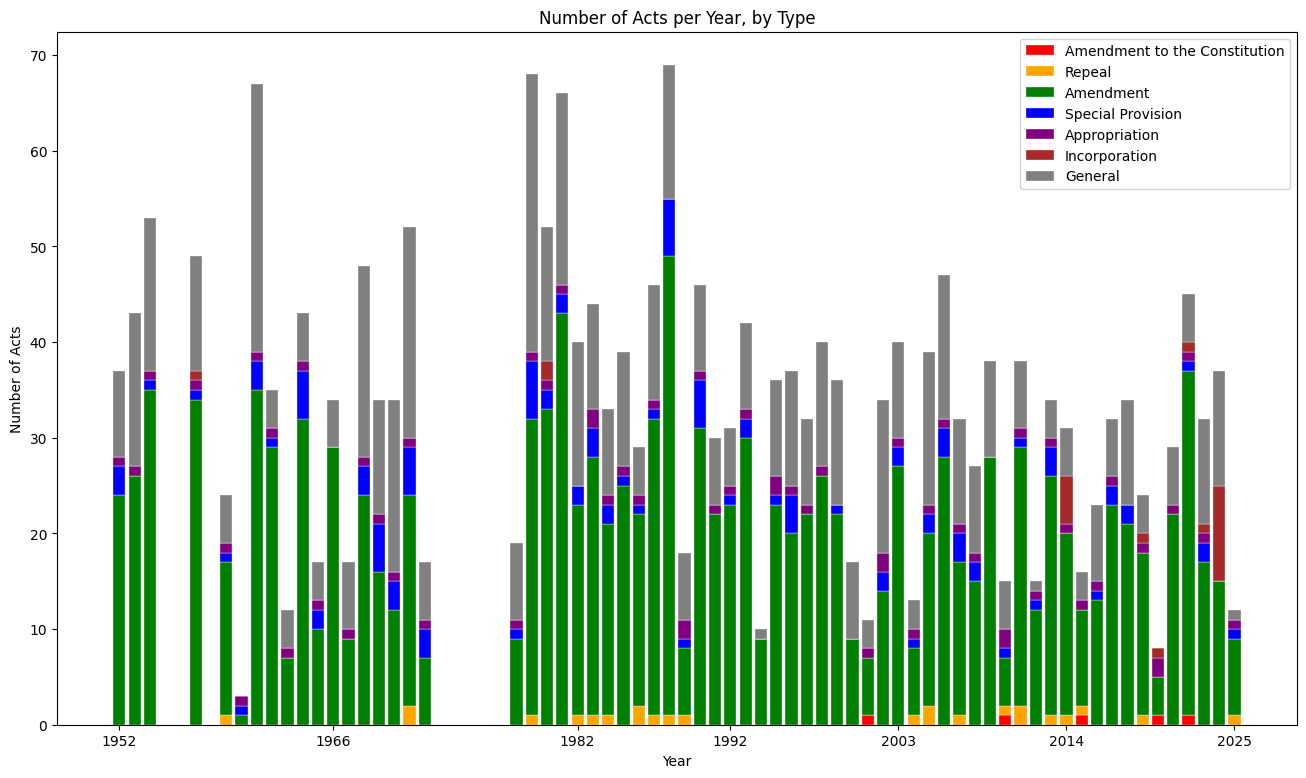
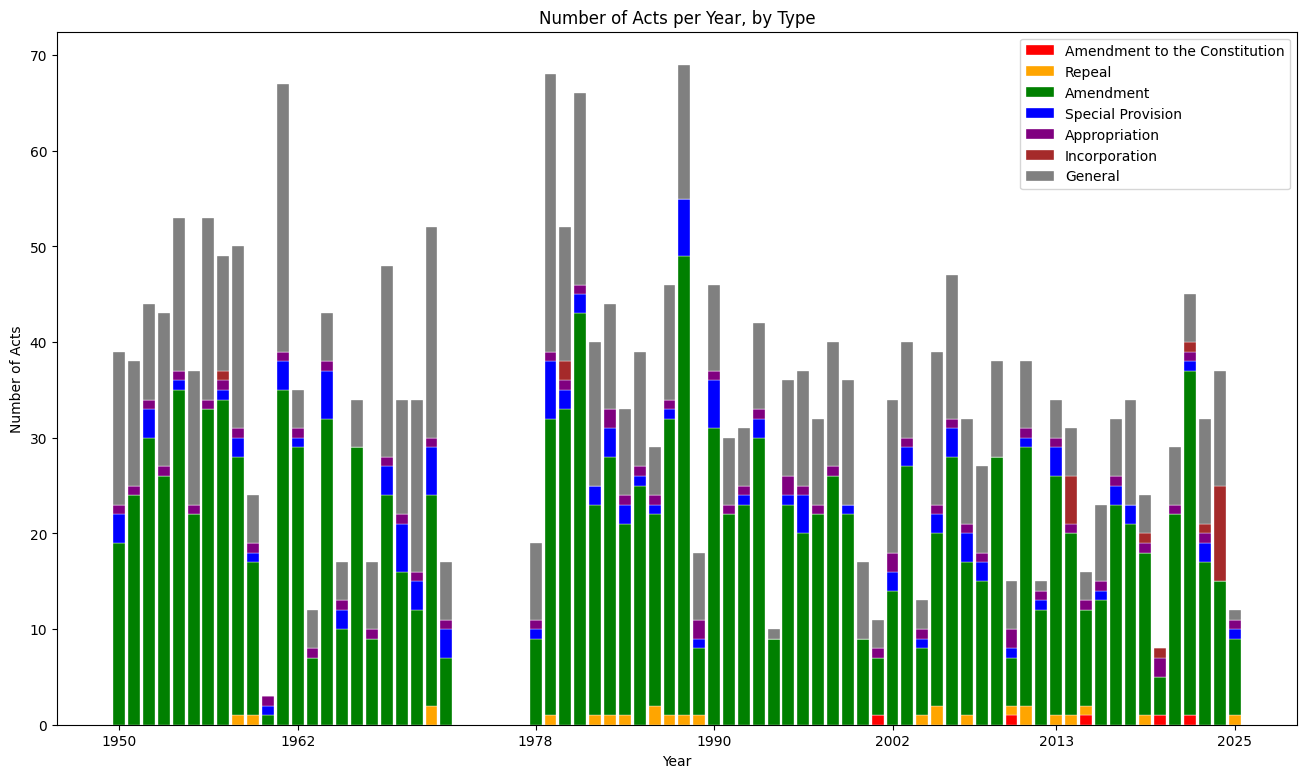
🤖 [readme_build.yml] 2025-08-19-0803

Changed region(s): [[0.0613, 0.0617, 0.9495, 0.9563]]

diff --git a/README.md b/README.md
@@ -1,6 +1,6 @@
 # 🇱🇰 Acts from the Sri Lankan Parliament ([lk_acts](https://github.com/nuuuwan/lk_acts))
 
-Scraped  **2,205** acts (232.77 MB) from [www.parliament.lk](https://www.parliament.lk/en) as of **2025-08-19 13:31:38**.
+Scraped  **2,429** acts (372.30 MB) from [www.parliament.lk](https://www.parliament.lk/en) as of **2025-08-19 13:33:37**.
 
 ![Year Chart](images/chart_year.png)
 
@@ -9,21 +9,21 @@ Scraped  **2,205** acts (232.77 MB) from [www.parliament.lk](https://www.parliam
 | decade | n_metadata | n_pdf | n_txt | n_act_json |
 | :-- | --: | --: | --: | --: |
 | 2020s | 163 | 163 | 163 | 107 |
-| 2010s | 262 | 198 | 198 | 112 |
-| 2000s | 298 | 106 | 106 | 51 |
-| 1990s | 340 | 80 | 80 | 26 |
+| 2010s | 262 | 262 | 262 | 142 |
+| 2000s | 298 | 287 | 287 | 130 |
+| 1990s | 340 | 117 | 117 | 26 |
 | 1980s | 436 | 0 | 0 | 0 |
 | 1970s | 190 | 0 | 0 | 0 |
 | 1960s | 310 | 0 | 0 | 0 |
-| 1950s | 206 | 0 | 0 | 0 |
-| Total | 2205 | 547 | 547 | 296 |
+| 1950s | 430 | 0 | 0 | 0 |
+| Total | 2429 | 829 | 829 | 405 |
 
 ## 🤗 Hugging Face Datasets (🆕)
 
 - [lk-acts-2020-2024-acts](https://huggingface.co/datasets/nuuuwan/lk-acts-2020-2024-acts)
 - [lk-acts-2020-2024-chunks](https://huggingface.co/datasets/nuuuwan/lk-acts-2020-2024-chunks)
 
-## Acts (2,205)
+## Acts (2,429)
 
 ### 2025 (12)
 
@@ -2234,6 +2234,59 @@ Scraped  **2,205** acts (232.77 MB) from [www.parliament.lk](https://www.parliam
 - 🟢 `02/1959` [Tea, Rubber and Coconut  Reseach (Amendment)](https://github.com/nuuuwan/lk_acts_data/tree/main/data/acts/1950s/1959/1959-002) (1959-01-21)
 - 🟢 `01/1959` [Bank Debit Tax (Amendment)](https://github.com/nuuuwan/lk_acts_data/tree/main/data/acts/1950s/1959/1959-001) (1959-01-21)
 
+### 1958 (50)
+
+- 🟢 `51/1958` [Food Control (Amendment)](https://github.com/nuuuwan/lk_acts_data/tree/main/data/acts/1950s/1958/1958-051) (1958-12-31)
+- 🟢 `50/1958` [Holidays (Amendment)](https://github.com/nuuuwan/lk_acts_data/tree/main/data/acts/1950s/1958/1958-050) (1958-12-31)
+- 🟢 `49/1958` [Civil Procedure Code (Amendment)](https://github.com/nuuuwan/lk_acts_data/tree/main/data/acts/1950s/1958/1958-049) (1958-12-31)
+- 🟢 `48/1958` [Ceylon State Mortgage Bank (Amendment)](https://github.com/nuuuwan/lk_acts_data/tree/main/data/acts/1950s/1958/1958-048) (1958-12-31)
+- 🟢 `47/1958` [Ceylon Post Office Savings Bank (Amendment)](https://github.com/nuuuwan/lk_acts_data/tree/main/data/acts/1950s/1958/1958-047) (1958-12-31)
+- 🟢 `46/1958` [Post Office Security Fund (Amendment)](https://github.com/nuuuwan/lk_acts_data/tree/main/data/acts/1950s/1958/1958-046) (1958-12-31)
+- ⚪ `45/1958` [Vidyodaya University and Vidyalankara University](https://github.com/nuuuwan/lk_acts_data/tree/main/data/acts/1950s/1958/1958-045) (1958-12-19)
+- 🟢 `44/1958` [Income Tax (Amendment)](https://github.com/nuuuwan/lk_acts_data/tree/main/data/acts/1950s/1958/1958-044) (1958-12-05)
+- 🟢 `43/1958` [Motor Traffic (Amendment)](https://github.com/nuuuwan/lk_acts_data/tree/main/data/acts/1950s/1958/1958-043) (1958-11-04)
+- 🟢 `42/1958` [National Housing (Amendment)](https://github.com/nuuuwan/lk_acts_data/tree/main/data/acts/1950s/1958/1958-042) (1958-11-03)
+- ⚪ `41/1958` [Profane Publcations](https://github.com/nuuuwan/lk_acts_data/tree/main/data/acts/1950s/1958/1958-041) (1958-11-03)
+- 🟢 `40/1958` [Bribery (Amendment)](https://github.com/nuuuwan/lk_acts_data/tree/main/data/acts/1950s/1958/1958-040) (1958-11-03)
+- 🟢 `39/1958` [Municipal Councils  (Amendment)](https://github.com/nuuuwan/lk_acts_data/tree/main/data/acts/1950s/1958/1958-039) (1958-11-03)
+- 🟢 `38/1958` [Street Collections Regulation (Amendment)](https://github.com/nuuuwan/lk_acts_data/tree/main/data/acts/1950s/1958/1958-038) (1958-11-03)
+- 🟢 `37/1958` [Education (Amendment)](https://github.com/nuuuwan/lk_acts_data/tree/main/data/acts/1950s/1958/1958-037) (1958-11-03)
+- ⚪ `36/1958` [Income Tax (Amendmenet)](https://github.com/nuuuwan/lk_acts_data/tree/main/data/acts/1950s/1958/1958-036) (1958-11-03)
+- 🟢 `35/1958` [Medical Wants (Amendment)](https://github.com/nuuuwan/lk_acts_data/tree/main/data/acts/1950s/1958/1958-035) (1958-11-03)
+- 🟢 `34/1958` [Income Tax (Amendment)](https://github.com/nuuuwan/lk_acts_data/tree/main/data/acts/1950s/1958/1958-034) (1958-11-03)
+- 🟢 `33/1958` [Income Tax (Amendment)](https://github.com/nuuuwan/lk_acts_data/tree/main/data/acts/1950s/1958/1958-033) (1958-11-03)
+- 🟣 `32/1958` [Appropriation](https://github.com/nuuuwan/lk_acts_data/tree/main/data/acts/1950s/1958/1958-032) (1958-09-16)
+- 🟢 `30/1958` [Paddy Lands (Amendment)](https://github.com/nuuuwan/lk_acts_data/tree/main/data/acts/1950s/1958/1958-030) (1958-09-16)
+- ⚪ `29/1958` [Animals](https://github.com/nuuuwan/lk_acts_data/tree/main/data/acts/1950s/1958/1958-029) (1958-09-16)
+- 🔵 `28/1958` [Tamil Language (Special Provisions)](https://github.com/nuuuwan/lk_acts_data/tree/main/data/acts/1950s/1958/1958-028) (1958-09-04)
+- 🟢 `27/1958` [Lotteries (Amendment)](https://github.com/nuuuwan/lk_acts_data/tree/main/data/acts/1950s/1958/1958-027) (1958-09-04)
+- ⚪ `26/1958` [Auditor General's  Fees](https://github.com/nuuuwan/lk_acts_data/tree/main/data/acts/1950s/1958/1958-026) (1958-07-19)
+- 🟢 `25/1958` [Customs (Amendment)](https://github.com/nuuuwan/lk_acts_data/tree/main/data/acts/1950s/1958/1958-025) (1958-07-19)
+- 🔵 `24/1958` [Co-Operative Societies (Special Provisions)](https://github.com/nuuuwan/lk_acts_data/tree/main/data/acts/1950s/1958/1958-024) (1958-05-09)
+- 🟠 `23/1958` [Stay in Strikes (Repeal)](https://github.com/nuuuwan/lk_acts_data/tree/main/data/acts/1950s/1958/1958-023) (1958-05-09)
+- 🟢 `22/1958` [Registration of Documents (Amendment)](https://github.com/nuuuwan/lk_acts_data/tree/main/data/acts/1950s/1958/1958-022) (1958-05-09)
+- ⚪ `21/1958` [Prisons (Amendmenet)](https://github.com/nuuuwan/lk_acts_data/tree/main/data/acts/1950s/1958/1958-021) (1958-05-09)
+- ⚪ `20/1958` [Suspension of Capital Punishment](https://github.com/nuuuwan/lk_acts_data/tree/main/data/acts/1950s/1958/1958-020) (1958-05-09)
+- ⚪ `19/1958` [Estate Bazaars (Compulsory Acquisition)](https://github.com/nuuuwan/lk_acts_data/tree/main/data/acts/1950s/1958/1958-019) (1958-05-09)
+- 🟢 `18/1958` [Trade Unions (Amendment)](https://github.com/nuuuwan/lk_acts_data/tree/main/data/acts/1950s/1958/1958-018) (1958-05-09)
+- 🟢 `17/1958` [Ceylon State Mortgage Bank (Amendment)](https://github.com/nuuuwan/lk_acts_data/tree/main/data/acts/1950s/1958/1958-017) (1958-05-09)
+- 🟢 `16/1958` [Stamp (Amendment)](https://github.com/nuuuwan/lk_acts_data/tree/main/data/acts/1950s/1958/1958-016) (1958-05-09)
+- ⚪ `15/1958` [Employees' Provident Fund](https://github.com/nuuuwan/lk_acts_data/tree/main/data/acts/1950s/1958/1958-015) (1958-05-09)
+- ⚪ `14/1958` [Enlargement of Powers(Urban Councils, Town Councils and Village Committees)](https://github.com/nuuuwan/lk_acts_data/tree/main/data/acts/1950s/1958/1958-014) (1958-05-09)
+- ⚪ `13/1958` [Port (Cargo) Corporation](https://github.com/nuuuwan/lk_acts_data/tree/main/data/acts/1950s/1958/1958-013) (1958-05-07)
+- ⚪ `12/1958` [Tea Subsidy](https://github.com/nuuuwan/lk_acts_data/tree/main/data/acts/1950s/1958/1958-012) (1958-04-02)
+- ⚪ `11/1958` [Walawe Lands](https://github.com/nuuuwan/lk_acts_data/tree/main/data/acts/1950s/1958/1958-011) (1958-03-12)
+- ⚪ `10/1958` [Conciliation Boards](https://github.com/nuuuwan/lk_acts_data/tree/main/data/acts/1950s/1958/1958-010) (1958-03-12)
+- ⚪ `09/1958` [Courts  Records(Inspection by Minister of Justice)](https://github.com/nuuuwan/lk_acts_data/tree/main/data/acts/1950s/1958/1958-009) (1958-03-12)
+- 🟢 `08/1958` [Development Finance Corporation of Ceylon (Amendment)](https://github.com/nuuuwan/lk_acts_data/tree/main/data/acts/1950s/1958/1958-008) (1958-02-20)
+- ⚪ `07/1958` [Inspector of Labour (Change of Designation)](https://github.com/nuuuwan/lk_acts_data/tree/main/data/acts/1950s/1958/1958-007) (1958-02-20)
+- 🟢 `06/1958` [Maternity Benefits(Amendment)](https://github.com/nuuuwan/lk_acts_data/tree/main/data/acts/1950s/1958/1958-006) (1958-02-20)
+- 🟢 `05/1958` [Rubber Replating Subsidy (Amendment)](https://github.com/nuuuwan/lk_acts_data/tree/main/data/acts/1950s/1958/1958-005) (1958-02-20)
+- ⚪ `04/1958` [Ceylon State Plantations Corporation](https://github.com/nuuuwan/lk_acts_data/tree/main/data/acts/1950s/1958/1958-004) (1958-02-20)
+- 🟢 `03/1958` [Food and Drugs (Amendment)](https://github.com/nuuuwan/lk_acts_data/tree/main/data/acts/1950s/1958/1958-003) (1958-02-20)
+- ⚪ `02/1958` [Tea and Rubber Estates (Control of Fragmentation)](https://github.com/nuuuwan/lk_acts_data/tree/main/data/acts/1950s/1958/1958-002) (1958-02-01)
+- ⚪ `01/1958` [Paddy Lands](https://github.com/nuuuwan/lk_acts_data/tree/main/data/acts/1950s/1958/1958-001) (1958-02-01)
+
 ### 1957 (49)
 
 - 🟢 `62/1957` [Industrial Disputes (Amendment)](https://github.com/nuuuwan/lk_acts_data/tree/main/data/acts/1950s/1957/1957-062) (1957-12-30)
@@ -2285,6 +2338,102 @@ Scraped  **2,205** acts (232.77 MB) from [www.parliament.lk](https://www.parliam
 - 🟢 `03/1957` [Petrol (Control of Supplies)(Amendment)](https://github.com/nuuuwan/lk_acts_data/tree/main/data/acts/1950s/1957/1957-003) (1957-01-24)
 - 🔵 `02/1957` [Local Authorities(Special Provisions)](https://github.com/nuuuwan/lk_acts_data/tree/main/data/acts/1950s/1957/1957-002) (1957-01-24)
 - 🟢 `01/1957` [Widow's  and Orphans' pension Fund (Amendment)](https://github.com/nuuuwan/lk_acts_data/tree/main/data/acts/1950s/1957/1957-001) (1957-01-24)
+
+### 1956 (53)
+
+- 🟢 `55/1956` [Pawnbrokers(Amendment)](https://github.com/nuuuwan/lk_acts_data/tree/main/data/acts/1950s/1956/1956-055) (1956-12-20)
+- 🟢 `54/1956` [Rubber Re-planting Subsidy(Amendment)](https://github.com/nuuuwan/lk_acts_data/tree/main/data/acts/1950s/1956/1956-054) (1956-12-20)
+- 🟢 `53/1956` [Industrial Products (Amendment)](https://github.com/nuuuwan/lk_acts_data/tree/main/data/acts/1950s/1956/1956-053) (1956-12-20)
+- 🟢 `52/1956` [Ceylon Post Office Savings Bank (Amendment)](https://github.com/nuuuwan/lk_acts_data/tree/main/data/acts/1950s/1956/1956-052) (1956-12-20)
+- ⚪ `51/1956` [Muslim Mosque and Charitable Trust of Wakfs](https://github.com/nuuuwan/lk_acts_data/tree/main/data/acts/1950s/1956/1956-051) (1956-11-07)
+- 🟢 `50/1956` [Estate Duty (Amendment)](https://github.com/nuuuwan/lk_acts_data/tree/main/data/acts/1950s/1956/1956-050) (1956-11-07)
+- 🟢 `49/1956` [Ceylon State Mortgage Bank (Amendment)](https://github.com/nuuuwan/lk_acts_data/tree/main/data/acts/1950s/1956/1956-049) (1956-11-07)
+- ⚪ `48/1956` [Children and young persons(Harmful PUblications)](https://github.com/nuuuwan/lk_acts_data/tree/main/data/acts/1950s/1956/1956-048) (1956-11-07)
+- ⚪ `47/1956` [Employment of Women, Young Persons and Children](https://github.com/nuuuwan/lk_acts_data/tree/main/data/acts/1950s/1956/1956-047) (1956-11-07)
+- ⚪ `46/1956` [Veterinary Surgeons and practitioners](https://github.com/nuuuwan/lk_acts_data/tree/main/data/acts/1950s/1956/1956-046) (1956-11-07)
+- 🟢 `45/1956` [Roads ( Transfer of Control) (Amendment)](https://github.com/nuuuwan/lk_acts_data/tree/main/data/acts/1950s/1956/1956-045) (1956-10-10)
+- ⚪ `44/1956` [Ceylon Savintgs Bank(Amendmeent)](https://github.com/nuuuwan/lk_acts_data/tree/main/data/acts/1950s/1956/1956-044) (1956-10-10)
+- ⚪ `43/1956` [Rest houses](https://github.com/nuuuwan/lk_acts_data/tree/main/data/acts/1950s/1956/1956-043) (1956-10-10)
+- 🟢 `42/1956` [Maintenance Orders(Facilities for Enforcement) (Amendment)](https://github.com/nuuuwan/lk_acts_data/tree/main/data/acts/1950s/1956/1956-042) (1956-09-28)
+- 🟣 `41/1956` [Appropriation](https://github.com/nuuuwan/lk_acts_data/tree/main/data/acts/1950s/1956/1956-041) (1956-09-14)
+- ⚪ `40/1956` [National Planning Council](https://github.com/nuuuwan/lk_acts_data/tree/main/data/acts/1950s/1956/1956-040) (1956-09-14)
+- 🟢 `39/1956` [Holidays (Amendment)](https://github.com/nuuuwan/lk_acts_data/tree/main/data/acts/1950s/1956/1956-039) (1956-09-06)
+- ⚪ `38/1956` [Mawathagama Land Acquisition](https://github.com/nuuuwan/lk_acts_data/tree/main/data/acts/1950s/1956/1956-038) (1956-09-01)
+- ⚪ `37/1956` [Fee - Charging Employment Agencies](https://github.com/nuuuwan/lk_acts_data/tree/main/data/acts/1950s/1956/1956-037) (1956-09-01)
+- 🟢 `36/1956` [Ceylon University (Amendment)](https://github.com/nuuuwan/lk_acts_data/tree/main/data/acts/1950s/1956/1956-036) (1956-09-01)
+- 🟢 `35/1956` [Exchange Control (Amendment)](https://github.com/nuuuwan/lk_acts_data/tree/main/data/acts/1950s/1956/1956-035) (1956-09-01)
+- 🟢 `34/1956` [Criminal Procedure Code (Amendment)](https://github.com/nuuuwan/lk_acts_data/tree/main/data/acts/1950s/1956/1956-034) (1956-08-02)
+- ⚪ `33/1956` [Official Language](https://github.com/nuuuwan/lk_acts_data/tree/main/data/acts/1950s/1956/1956-033) (1956-07-07)
+- 🟢 `32/1956` [Police (Amendment)](https://github.com/nuuuwan/lk_acts_data/tree/main/data/acts/1950s/1956/1956-032) (1956-06-28)
+- 🟢 `31/1956` [Ceylon State Mortgage Bank (Amendment)](https://github.com/nuuuwan/lk_acts_data/tree/main/data/acts/1950s/1956/1956-031) (1956-06-14)
+- 🟢 `30/1956` [Fisheries (Amendment)](https://github.com/nuuuwan/lk_acts_data/tree/main/data/acts/1950s/1956/1956-030) (1956-02-17)
+- 🟢 `29/1956` [Coconut Products (Amendment)](https://github.com/nuuuwan/lk_acts_data/tree/main/data/acts/1950s/1956/1956-029) (1956-02-17)
+- 🟢 `28/1956` [Housing & Town (Improvement) Amendment](https://github.com/nuuuwan/lk_acts_data/tree/main/data/acts/1950s/1956/1956-028) (1956-02-17)
+- 🟢 `27/1956` [Mental Diseases (Amendment)](https://github.com/nuuuwan/lk_acts_data/tree/main/data/acts/1950s/1956/1956-027) (1956-02-17)
+- 🟢 `26/1956` [Hospitals Lotteries (Amendment)](https://github.com/nuuuwan/lk_acts_data/tree/main/data/acts/1950s/1956/1956-026) (1956-02-17)
+- 🟢 `25/1956` [Industrial Disputes (Amendment)](https://github.com/nuuuwan/lk_acts_data/tree/main/data/acts/1950s/1956/1956-025) (1956-02-17)
+- 🟢 `24/1956` [Petroleum (Amendment)](https://github.com/nuuuwan/lk_acts_data/tree/main/data/acts/1950s/1956/1956-024) (1956-02-17)
+- 🟢 `23/1956` [Rabies (Amendment)](https://github.com/nuuuwan/lk_acts_data/tree/main/data/acts/1950s/1956/1956-023) (1956-02-17)
+- 🟢 `22/1956` [Municipal Councils (Amendment)](https://github.com/nuuuwan/lk_acts_data/tree/main/data/acts/1950s/1956/1956-022) (1956-02-17)
+- ⚪ `21/1956` [Explosives](https://github.com/nuuuwan/lk_acts_data/tree/main/data/acts/1950s/1956/1956-021) (1956-02-17)
+- ⚪ `18/1956` [Conversion of Estate Roads into Public Roads](https://github.com/nuuuwan/lk_acts_data/tree/main/data/acts/1950s/1956/1956-018) (1956-02-17)
+- 🟢 `17/1956` [Bribery (Amendment)](https://github.com/nuuuwan/lk_acts_data/tree/main/data/acts/1950s/1956/1956-017) (1956-02-16)
+- 🟢 `16/1956` [Ceylon Parliamentary Elections (Amendment)](https://github.com/nuuuwan/lk_acts_data/tree/main/data/acts/1950s/1956/1956-016) (1956-02-16)
+- 🟢 `15/1956` [Stamp (Amendment)](https://github.com/nuuuwan/lk_acts_data/tree/main/data/acts/1950s/1956/1956-015) (1956-02-14)
+- ⚪ `14/1956` [Control of the Possession of Food](https://github.com/nuuuwan/lk_acts_data/tree/main/data/acts/1950s/1956/1956-014) (1956-02-03)
+- 🟢 `13/1956` [Heavy Oil Motor Vehicles Taxation (Amendment)](https://github.com/nuuuwan/lk_acts_data/tree/main/data/acts/1950s/1956/1956-013) (1956-02-03)
+- 🟢 `12/1956` [Village Communities (Amendment)](https://github.com/nuuuwan/lk_acts_data/tree/main/data/acts/1950s/1956/1956-012) (1956-02-03)
+- ⚪ `11/1956` [Rubber Control](https://github.com/nuuuwan/lk_acts_data/tree/main/data/acts/1950s/1956/1956-011) (1956-02-03)
+- 🟢 `10/1956` [Health Services  (Amendment)](https://github.com/nuuuwan/lk_acts_data/tree/main/data/acts/1950s/1956/1956-010) (1956-02-03)
+- 🟢 `09/1956` [Excise ( Amendment)](https://github.com/nuuuwan/lk_acts_data/tree/main/data/acts/1950s/1956/1956-009) (1956-02-03)
+- 🟢 `08/1956` [Ceylon Develonment Loans ( Amendment)](https://github.com/nuuuwan/lk_acts_data/tree/main/data/acts/1950s/1956/1956-008) (1956-02-03)
+- ⚪ `07/1956` [Nursing Houses (Validation of the Refund of Fees)](https://github.com/nuuuwan/lk_acts_data/tree/main/data/acts/1950s/1956/1956-007) (1956-02-03)
+- ⚪ `06/1956` [Government Indemnity Bonds](https://github.com/nuuuwan/lk_acts_data/tree/main/data/acts/1950s/1956/1956-006) (1956-02-03)
+- ⚪ `5/1956` [Special Stamps](https://github.com/nuuuwan/lk_acts_data/tree/main/data/acts/1950s/1956/1956-005) (1956-02-03)
+- ⚪ `04/1956` [International Finance Corporation Agreement](https://github.com/nuuuwan/lk_acts_data/tree/main/data/acts/1950s/1956/1956-004) (1956-02-02)
+- 🟢 `03/1956` [Income Tax (Amendment)](https://github.com/nuuuwan/lk_acts_data/tree/main/data/acts/1950s/1956/1956-003) (1956-02-02)
+- ⚪ `02/1956` [Revised Edition of the Legislative Enactment](https://github.com/nuuuwan/lk_acts_data/tree/main/data/acts/1950s/1956/1956-002) (1956-02-01)
+- 🟢 `01/1956` [Motor Traffic (Amendment)](https://github.com/nuuuwan/lk_acts_data/tree/main/data/acts/1950s/1956/1956-001) (1956-01-19)
+
+### 1955 (37)
+
+- ⚪ `38/1955` [Coconut Crafting](https://github.com/nuuuwan/lk_acts_data/tree/main/data/acts/1950s/1955/1955-038) (1955-11-12)
+- 🟢 `37/1955` [Bank of Ceylon ( Amendment)](https://github.com/nuuuwan/lk_acts_data/tree/main/data/acts/1950s/1955/1955-037) (1955-11-12)
+- 🟢 `36/1955` [Co-operative Wholesale Establishment ( Amendment)](https://github.com/nuuuwan/lk_acts_data/tree/main/data/acts/1950s/1955/1955-036) (1955-11-12)
+- ⚪ `35/1955` [Development Finance Corporation of Ceylon](https://github.com/nuuuwan/lk_acts_data/tree/main/data/acts/1950s/1955/1955-035) (1955-10-04)
+- 🟢 `34/1955` [Estate Duty ( Amendment)](https://github.com/nuuuwan/lk_acts_data/tree/main/data/acts/1950s/1955/1955-034) (1955-10-04)
+- 🟣 `33/1955` [Appropriation](https://github.com/nuuuwan/lk_acts_data/tree/main/data/acts/1950s/1955/1955-033) (1955-09-21)
+- ⚪ `32/1955` [Official Secrets](https://github.com/nuuuwan/lk_acts_data/tree/main/data/acts/1950s/1955/1955-032) (1955-09-01)
+- 🟢 `31/1955` [Post Office  (Amendment)](https://github.com/nuuuwan/lk_acts_data/tree/main/data/acts/1950s/1955/1955-031) (1955-09-01)
+- 🟢 `30/1955` [National Housing ( Amendment)](https://github.com/nuuuwan/lk_acts_data/tree/main/data/acts/1950s/1955/1955-030) (1955-08-25)
+- 🟢 `29/1955` [Commissions of Inquiry (Amendment)](https://github.com/nuuuwan/lk_acts_data/tree/main/data/acts/1950s/1955/1955-029) (1955-08-25)
+- 🟢 `28/1955` [Milk Board ( Amendment)](https://github.com/nuuuwan/lk_acts_data/tree/main/data/acts/1950s/1955/1955-028) (1955-06-29)
+- 🟢 `27/1955` [Master Attendance ( Amendment)](https://github.com/nuuuwan/lk_acts_data/tree/main/data/acts/1950s/1955/1955-027) (1955-06-29)
+- 🟢 `26/1955` [Houses of Detention(Amendment)](https://github.com/nuuuwan/lk_acts_data/tree/main/data/acts/1950s/1955/1955-026) (1955-04-27)
+- 🟢 `25/1955` [The Promissory Oaths (Amendment)](https://github.com/nuuuwan/lk_acts_data/tree/main/data/acts/1950s/1955/1955-025) (1955-04-27)
+- ⚪ `24/1955` [All Ceylon Buddhist Congress](https://github.com/nuuuwan/lk_acts_data/tree/main/data/acts/1950s/1955/1955-024) (1955-04-16)
+- 🟢 `23/1955` [Medical (Amendment)](https://github.com/nuuuwan/lk_acts_data/tree/main/data/acts/1950s/1955/1955-023) (1955-04-14)
+- ⚪ `22/1955` [Administrative Districts](https://github.com/nuuuwan/lk_acts_data/tree/main/data/acts/1950s/1955/1955-022) (1955-04-14)
+- 🟢 `20/1955` [Tea Research ( Amendment)](https://github.com/nuuuwan/lk_acts_data/tree/main/data/acts/1950s/1955/1955-020) (1955-04-14)
+- 🟢 `19/1955` [Governess Sub- Sponsored Corporation ( Amendment)](https://github.com/nuuuwan/lk_acts_data/tree/main/data/acts/1950s/1955/1955-019) (1955-04-14)
+- 🟢 `18/1955` [Fire Arms (Amendment)](https://github.com/nuuuwan/lk_acts_data/tree/main/data/acts/1950s/1955/1955-018) (1955-04-14)
+- ⚪ `17/1955` [Rome Convention](https://github.com/nuuuwan/lk_acts_data/tree/main/data/acts/1950s/1955/1955-017) (1955-04-14)
+- 🟢 `16/1955` [Immigrants & Emigrants (Amendment)](https://github.com/nuuuwan/lk_acts_data/tree/main/data/acts/1950s/1955/1955-016) (1955-04-14)
+- ⚪ `15/1955` [Ceylon Institute of Scientific & Industrial Research](https://github.com/nuuuwan/lk_acts_data/tree/main/data/acts/1950s/1955/1955-015) (1955-04-12)
+- ⚪ `14/1955` [Sri Punyawardhana Samithiya](https://github.com/nuuuwan/lk_acts_data/tree/main/data/acts/1950s/1955/1955-014) (1955-04-12)
+- 🟢 `13/1955` [Citizenship (Amendment)](https://github.com/nuuuwan/lk_acts_data/tree/main/data/acts/1950s/1955/1955-013) (1955-04-12)
+- ⚪ `12/1955` [Stay-in Strikes](https://github.com/nuuuwan/lk_acts_data/tree/main/data/acts/1950s/1955/1955-012) (1955-04-12)
+- 🟢 `11/1955` [Income Tax (Amendment)](https://github.com/nuuuwan/lk_acts_data/tree/main/data/acts/1950s/1955/1955-011) (1955-04-12)
+- ⚪ `10/1955` [Town & Country Planning](https://github.com/nuuuwan/lk_acts_data/tree/main/data/acts/1950s/1955/1955-010) (1955-04-08)
+- ⚪ `09/1955` [Imports & Exports (Control)](https://github.com/nuuuwan/lk_acts_data/tree/main/data/acts/1950s/1955/1955-009) (1955-04-08)
+- 🟢 `08/1955` [Commissions of Inquiry (Amendment)](https://github.com/nuuuwan/lk_acts_data/tree/main/data/acts/1950s/1955/1955-008) (1955-03-24)
+- 🟢 `07/1955` [Food Supplies (Amendment)](https://github.com/nuuuwan/lk_acts_data/tree/main/data/acts/1950s/1955/1955-007) (1955-03-10)
+- 🟢 `06/1955` [ceylon Savings Bank (Amendment)](https://github.com/nuuuwan/lk_acts_data/tree/main/data/acts/1950s/1955/1955-006) (1955-02-18)
+- ⚪ `05/1955` [Bills of Exchange](https://github.com/nuuuwan/lk_acts_data/tree/main/data/acts/1950s/1955/1955-005) (1955-02-18)
+- ⚪ `04/1955` [Hospitals Lotteries](https://github.com/nuuuwan/lk_acts_data/tree/main/data/acts/1950s/1955/1955-004) (1955-02-18)
+- 🟢 `03/1955` [Rubber Research (Amendment)](https://github.com/nuuuwan/lk_acts_data/tree/main/data/acts/1950s/1955/1955-003) (1955-02-18)
+- ⚪ `02/1955` [Antiquities](https://github.com/nuuuwan/lk_acts_data/tree/main/data/acts/1950s/1955/1955-002) (1955-02-18)
+- 🟢 `01/1955` [Rubber Replanting Subsidy (Amendment)](https://github.com/nuuuwan/lk_acts_data/tree/main/data/acts/1950s/1955/1955-001) (1955-01-27)
 
 ### 1954 (53)
 
@@ -2388,7 +2537,7 @@ Scraped  **2,205** acts (232.77 MB) from [www.parliament.lk](https://www.parliam
 - 🟢 `03/1953` [Housing Loan (Amendment)](https://github.com/nuuuwan/lk_acts_data/tree/main/data/acts/1950s/1953/1953-003) (1953-02-14)
 - 🟢 `02/1953` [Pawn Brokers (Amendment)](https://github.com/nuuuwan/lk_acts_data/tree/main/data/acts/1950s/1953/1953-002) (1953-02-13)
 
-### 1952 (37)
+### 1952 (44)
 
 - 🟢 `45/1952` [Indian & Pakistani Residents (Citizenship) (Amendment)](https://github.com/nuuuwan/lk_acts_data/tree/main/data/acts/1950s/1952/1952-045) (1952-11-27)
 - ⚪ `44/1952` [Kandian Marriage & Divorce](https://github.com/nuuuwan/lk_acts_data/tree/main/data/acts/1950s/1952/1952-044) (1952-11-22)
@@ -2427,4 +2576,94 @@ Scraped  **2,205** acts (232.77 MB) from [www.parliament.lk](https://www.parliam
 - ⚪ `11/1952` [Anuradhapura Buddhist Association, Anuradhapura](https://github.com/nuuuwan/lk_acts_data/tree/main/data/acts/1950s/1952/1952-011) (1952-03-08)
 - 🟢 `09/1952` [Stamp (Amendment)](https://github.com/nuuuwan/lk_acts_data/tree/main/data/acts/1950s/1952/1952-009) (1952-03-08)
 - ⚪ `08/1952` [Local Authorities (Enlargement of Powers)](https://github.com/nuuuwan/lk_acts_data/tree/main/data/acts/1950s/1952/1952-008) (1952-02-08)
+- 🟢 `07/1952` [Ceylon Parliamentary Elections (Amendment)](https://github.com/nuuuwan/lk_acts_data/tree/main/data/acts/1950s/1952/1952-007) (1952-01-31)
+- ⚪ `06/1952` [Local Authorities (Standard By-Laws)](https://github.com/nuuuwan/lk_acts_data/tree/main/data/acts/1950s/1952/1952-006) (1952-01-16)
+- 🟢 `05/1952` [Loan Board (Amendment)](https://github.com/nuuuwan/lk_acts_data/tree/main/data/acts/1950s/1952/1952-005) (1952-01-16)
+- 🟢 `04/1952` [Trade Marks (Amendment)](https://github.com/nuuuwan/lk_acts_data/tree/main/data/acts/1950s/1952/1952-004) (1952-01-16)
+- 🟢 `03/1952` [School Teachers' Pension (Amendment)](https://github.com/nuuuwan/lk_acts_data/tree/main/data/acts/1950s/1952/1952-003) (1952-01-16)
+- 🟢 `02/1952` [Entertainment Tax (Amendment)](https://github.com/nuuuwan/lk_acts_data/tree/main/data/acts/1950s/1952/1952-002) (1952-01-16)
+- 🟢 `01/1952` [Motor Traffic (Amendment)](https://github.com/nuuuwan/lk_acts_data/tree/main/data/acts/1950s/1952/1952-001) (1952-01-16)
+
+### 1951 (38)
+
+- ⚪ `42/1951` [Negombo Municipal Council (Differential Rates)](https://github.com/nuuuwan/lk_acts_data/tree/main/data/acts/1950s/1951/1951-042) (1951-12-21)
+- 🟢 `41/1951` [Guides (Amendment)](https://github.com/nuuuwan/lk_acts_data/tree/main/data/acts/1950s/1951/1951-041) (1951-12-21)
+- 🟢 `40/1951` [Holidays (Amendment)](https://github.com/nuuuwan/lk_acts_data/tree/main/data/acts/1950s/1951/1951-040) (1951-12-21)
+- ⚪ `38/1951` [Lady Lochore Loan Fund (Boards of Trustees)](https://github.com/nuuuwan/lk_acts_data/tree/main/data/acts/1950s/1951/1951-038) (1951-09-24)
+- 🟣 `37/1951` [Appropriation (1951-1952)](https://github.com/nuuuwan/lk_acts_data/tree/main/data/acts/1950s/1951/1951-037) (1951-09-22)
+- 🟢 `36/1951` [Income Tax (Amendment)](https://github.com/nuuuwan/lk_acts_data/tree/main/data/acts/1950s/1951/1951-036) (1951-09-05)
+- 🟢 `35/1951` [Companies (Amendment)](https://github.com/nuuuwan/lk_acts_data/tree/main/data/acts/1950s/1951/1951-035) (1951-09-01)
+- 🟢 `34/1951` [Forest (Amendment)](https://github.com/nuuuwan/lk_acts_data/tree/main/data/acts/1950s/1951/1951-034) (1951-09-01)
+- 🟢 `33/1951` [Profit Tax (Amendment)](https://github.com/nuuuwan/lk_acts_data/tree/main/data/acts/1950s/1951/1951-033) (1951-09-01)
+- 🟢 `32/1951` [Tea Research (Amendment)](https://github.com/nuuuwan/lk_acts_data/tree/main/data/acts/1950s/1951/1951-032) (1951-09-01)
+- 🟢 `31/1951` [Coconut Research (Amendment)](https://github.com/nuuuwan/lk_acts_data/tree/main/data/acts/1950s/1951/1951-031) (1951-09-01)
+- 🟢 `30/1951` [Rubber Research (Amendment)](https://github.com/nuuuwan/lk_acts_data/tree/main/data/acts/1950s/1951/1951-030) (1951-09-01)
+- ⚪ `29/1951` [Lighthouses](https://github.com/nuuuwan/lk_acts_data/tree/main/data/acts/1950s/1951/1951-029) (1951-09-01)
+- 🟢 `28/1951` [Printers and Publishers (Amendment)](https://github.com/nuuuwan/lk_acts_data/tree/main/data/acts/1950s/1951/1951-028) (1951-09-01)
+- 🟢 `27/1951` [Customs (Amendment)](https://github.com/nuuuwan/lk_acts_data/tree/main/data/acts/1950s/1951/1951-027) (1951-08-13)
+- ⚪ `26/1951` [Companies (Donation)](https://github.com/nuuuwan/lk_acts_data/tree/main/data/acts/1950s/1951/1951-026) (1951-08-13)
+- ⚪ `25/1951` [Soil Conservation](https://github.com/nuuuwan/lk_acts_data/tree/main/data/acts/1950s/1951/1951-025) (1951-08-13)
+- ⚪ `24/1951` [Firing Ranges and Military Training](https://github.com/nuuuwan/lk_acts_data/tree/main/data/acts/1950s/1951/1951-024) (1951-08-13)
+- 🟢 `23/1951` [Public Performances (Amendment)](https://github.com/nuuuwan/lk_acts_data/tree/main/data/acts/1950s/1951/1951-023) (1951-07-26)
+- 🟢 `22/1951` [Housing Loans (Amendment)](https://github.com/nuuuwan/lk_acts_data/tree/main/data/acts/1950s/1951/1951-022) (1951-07-26)
+- 🟢 `20/1951` [Printing Press (Amendment)](https://github.com/nuuuwan/lk_acts_data/tree/main/data/acts/1950s/1951/1951-020) (1951-07-12)
+- 🟢 `19/1951` [Savings Certificates (Amendment)](https://github.com/nuuuwan/lk_acts_data/tree/main/data/acts/1950s/1951/1951-019) (1951-07-12)
+- 🟢 `18/1951` [Newspapers (Amendment)](https://github.com/nuuuwan/lk_acts_data/tree/main/data/acts/1950s/1951/1951-018) (1951-07-12)
+- ⚪ `17/1951` [Births and Deaths Registration](https://github.com/nuuuwan/lk_acts_data/tree/main/data/acts/1950s/1951/1951-017) (1951-04-12)
+- ⚪ `16/1951` [Partition](https://github.com/nuuuwan/lk_acts_data/tree/main/data/acts/1950s/1951/1951-016) (1951-04-12)
+- ⚪ `15/1951` [Colombo Municipal Council (Differential Rates)](https://github.com/nuuuwan/lk_acts_data/tree/main/data/acts/1950s/1951/1951-015) (1951-04-12)
+- ⚪ `14/1951` [Motor Traffic](https://github.com/nuuuwan/lk_acts_data/tree/main/data/acts/1950s/1951/1951-014) (1951-04-06)
+- ⚪ `13/1951` [Muslim Marriage & Divorce](https://github.com/nuuuwan/lk_acts_data/tree/main/data/acts/1950s/1951/1951-013) (1951-04-05)
+- ⚪ `11/1951` [Roads (Trnasfer of Control)](https://github.com/nuuuwan/lk_acts_data/tree/main/data/acts/1950s/1951/1951-011) (1951-03-22)
+- 🟢 `10/1951` [Public Servants (Liabilities) (Amendment)](https://github.com/nuuuwan/lk_acts_data/tree/main/data/acts/1950s/1951/1951-010) (1951-03-15)
+- ⚪ `09/1951` [Felling of Trees (Control)](https://github.com/nuuuwan/lk_acts_data/tree/main/data/acts/1950s/1951/1951-009) (1951-03-15)
+- 🟢 `08/1951` [Estate Duty (Amendment)](https://github.com/nuuuwan/lk_acts_data/tree/main/data/acts/1950s/1951/1951-008) (1951-03-15)
+- 🟢 `06/1951` [Notaries (Amendment)](https://github.com/nuuuwan/lk_acts_data/tree/main/data/acts/1950s/1951/1951-006) (1951-03-09)
+- 🟢 `05/1951` [Education (Amendment)](https://github.com/nuuuwan/lk_acts_data/tree/main/data/acts/1950s/1951/1951-005) (1951-03-02)
+- 🟢 `04/1951` [Special Areas (Colombo) Development (Amendment)](https://github.com/nuuuwan/lk_acts_data/tree/main/data/acts/1950s/1951/1951-004) (1951-02-28)
+- 🟢 `03/1951` [Municipal Councils (Amendment)](https://github.com/nuuuwan/lk_acts_data/tree/main/data/acts/1950s/1951/1951-003) (1951-02-23)
+- 🟢 `02/1951` [Butchers (Amendments)](https://github.com/nuuuwan/lk_acts_data/tree/main/data/acts/1950s/1951/1951-002) (1951-02-23)
+- 🟢 `01/1951` [Irrigation (Amendment)](https://github.com/nuuuwan/lk_acts_data/tree/main/data/acts/1950s/1951/1951-001) (1951-02-01)
+
+### 1950 (39)
+
+- ⚪ `43/1950` [Industrial Disputes](https://github.com/nuuuwan/lk_acts_data/tree/main/data/acts/1950s/1950/1950-043) (1950-12-16)
+- ⚪ `42/1950` [Galle Municipal Council (Differential Rates) (Ninth Extension)](https://github.com/nuuuwan/lk_acts_data/tree/main/data/acts/1950s/1950/1950-042) (1950-12-14)
+- 🟢 `41/1950` [State Mortgage Bank (Amendment)](https://github.com/nuuuwan/lk_acts_data/tree/main/data/acts/1950s/1950/1950-041) (1950-12-14)
+- 🟢 `40/1950` [Citizenship (Amendment)](https://github.com/nuuuwan/lk_acts_data/tree/main/data/acts/1950s/1950/1950-040) (1950-12-14)
+- 🟢 `39/1950` [Holidays (Amendment)](https://github.com/nuuuwan/lk_acts_data/tree/main/data/acts/1950s/1950/1950-039) (1950-12-07)
+- 🟢 `38/1950` [Ceylon Parliamentary Elections (Amendment)](https://github.com/nuuuwan/lk_acts_data/tree/main/data/acts/1950s/1950/1950-038) (1950-12-07)
+- 🟢 `37/1950` [Indian & Pakisthani Residents (Citizenship) (Amendment)](https://github.com/nuuuwan/lk_acts_data/tree/main/data/acts/1950s/1950/1950-037) (1950-12-07)
+- 🟢 `36/1950` [Visiting Forces (Amendment)](https://github.com/nuuuwan/lk_acts_data/tree/main/data/acts/1950s/1950/1950-036) (1950-12-07)
+- ⚪ `35/1950` [Exchange & Securities Control (Continuation)](https://github.com/nuuuwan/lk_acts_data/tree/main/data/acts/1950s/1950/1950-035) (1950-12-07)
+- ⚪ `34/1950` [Navy](https://github.com/nuuuwan/lk_acts_data/tree/main/data/acts/1950s/1950/1950-034) (1950-12-07)
+- ⚪ `33/1950` [Requisitioning of Land](https://github.com/nuuuwan/lk_acts_data/tree/main/data/acts/1950s/1950/1950-033) (1950-12-06)
+- 🔵 `32/1950` [Coconut Products (Special Provisions)](https://github.com/nuuuwan/lk_acts_data/tree/main/data/acts/1950s/1950/1950-032) (1950-12-06)
+- 🟢 `30/1950` [Income Tax (Amendment)](https://github.com/nuuuwan/lk_acts_data/tree/main/data/acts/1950s/1950/1950-030) (1950-10-20)
+- ⚪ `29/1950` [Control of Prices](https://github.com/nuuuwan/lk_acts_data/tree/main/data/acts/1950s/1950/1950-029) (1950-10-20)
+- 🟢 `28/1950` [Surveyers (Amendment)](https://github.com/nuuuwan/lk_acts_data/tree/main/data/acts/1950s/1950/1950-028) (1950-10-20)
+- ⚪ `27/1950` [Imports & Export Control (Continuation)](https://github.com/nuuuwan/lk_acts_data/tree/main/data/acts/1950s/1950/1950-027) (1950-10-20)
+- ⚪ `26/1950` [Double Taxation (Relief)](https://github.com/nuuuwan/lk_acts_data/tree/main/data/acts/1950s/1950/1950-026) (1950-10-20)
+- ⚪ `25/1950` [Food Control](https://github.com/nuuuwan/lk_acts_data/tree/main/data/acts/1950s/1950/1950-025) (1950-10-20)
+- ⚪ `24/1950` [Defence Regulations (Extension)](https://github.com/nuuuwan/lk_acts_data/tree/main/data/acts/1950s/1950/1950-024) (1950-10-03)
+- 🟣 `23/1950` [Appropriation](https://github.com/nuuuwan/lk_acts_data/tree/main/data/acts/1950s/1950/1950-023) (1950-09-07)
+- 🟢 `22/1950` [Agricultural and Industrial Credit Corporation (Amendment)](https://github.com/nuuuwan/lk_acts_data/tree/main/data/acts/1950s/1950/1950-022) (1950-08-25)
+- 🟢 `21/1950` [Tea Propaganda (Amendment)](https://github.com/nuuuwan/lk_acts_data/tree/main/data/acts/1950s/1950/1950-021) (1950-08-25)
+- ⚪ `20/1950` [Bretton Woods Agreement](https://github.com/nuuuwan/lk_acts_data/tree/main/data/acts/1950s/1950/1950-020) (1950-08-22)
+- ⚪ `19/1950` [Electricity](https://github.com/nuuuwan/lk_acts_data/tree/main/data/acts/1950s/1950/1950-019) (1950-04-05)
+- 🟢 `18/1950` [Railways (Amendment)](https://github.com/nuuuwan/lk_acts_data/tree/main/data/acts/1950s/1950/1950-018) (1950-04-05)
+- 🟢 `17/1950` [Fisheries (Amendment)](https://github.com/nuuuwan/lk_acts_data/tree/main/data/acts/1950s/1950/1950-017) (1950-03-31)
+- 🔵 `16/1950` [Imports & Export Duties (Special Provisions)](https://github.com/nuuuwan/lk_acts_data/tree/main/data/acts/1950s/1950/1950-016) (1950-03-31)
+- ⚪ `15/1950` [Air Navigation](https://github.com/nuuuwan/lk_acts_data/tree/main/data/acts/1950s/1950/1950-015) (1950-03-29)
+- 🟢 `14/1950` [Tea Control (Amendment)](https://github.com/nuuuwan/lk_acts_data/tree/main/data/acts/1950s/1950/1950-014) (1950-03-17)
+- 🟢 `13/1950` [Public Bodies ( Prevention of Corruption) (Amendment)](https://github.com/nuuuwan/lk_acts_data/tree/main/data/acts/1950s/1950/1950-013) (1950-03-17)
+- 🟢 `11/1950` [Rubber Control (Amendment)](https://github.com/nuuuwan/lk_acts_data/tree/main/data/acts/1950s/1950/1950-011) (1950-03-17)
+- ⚪ `10/1950` [Port of Colombo (Administration)](https://github.com/nuuuwan/lk_acts_data/tree/main/data/acts/1950s/1950/1950-010) (1950-03-17)
+- 🟢 `08/1950` [Commissions of Inquiry (Amendment)](https://github.com/nuuuwan/lk_acts_data/tree/main/data/acts/1950s/1950/1950-008) (1950-03-09)
+- 🟢 `07/1950` [Rubber Research (Amendment)](https://github.com/nuuuwan/lk_acts_data/tree/main/data/acts/1950s/1950/1950-007) (1950-03-04)
+- 🟢 `06/1950` [Plant Protection (Amendment)](https://github.com/nuuuwan/lk_acts_data/tree/main/data/acts/1950s/1950/1950-006) (1950-03-04)
+- 🟢 `04/1950` [Agricultural and Industrial Credit Corporation (Amendment)](https://github.com/nuuuwan/lk_acts_data/tree/main/data/acts/1950s/1950/1950-004) (1950-03-04)
+- ⚪ `03/1950` [National Development Loan](https://github.com/nuuuwan/lk_acts_data/tree/main/data/acts/1950s/1950/1950-003) (1950-02-16)
+- 🔵 `02/1950` [Loan Board (Special Provisions)](https://github.com/nuuuwan/lk_acts_data/tree/main/data/acts/1950s/1950/1950-002) (1950-02-16)
+- ⚪ `1/1950` [Stock](https://github.com/nuuuwan/lk_acts_data/tree/main/data/acts/1950s/1950/1950-001) (1950-02-16)
 
